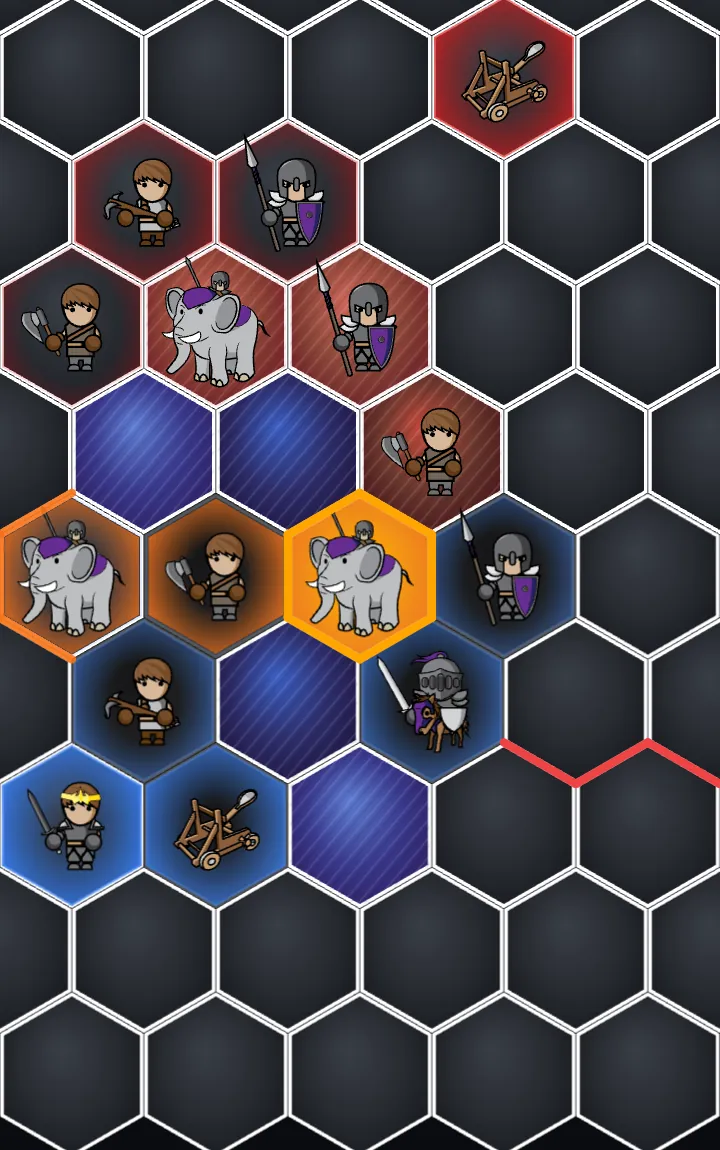
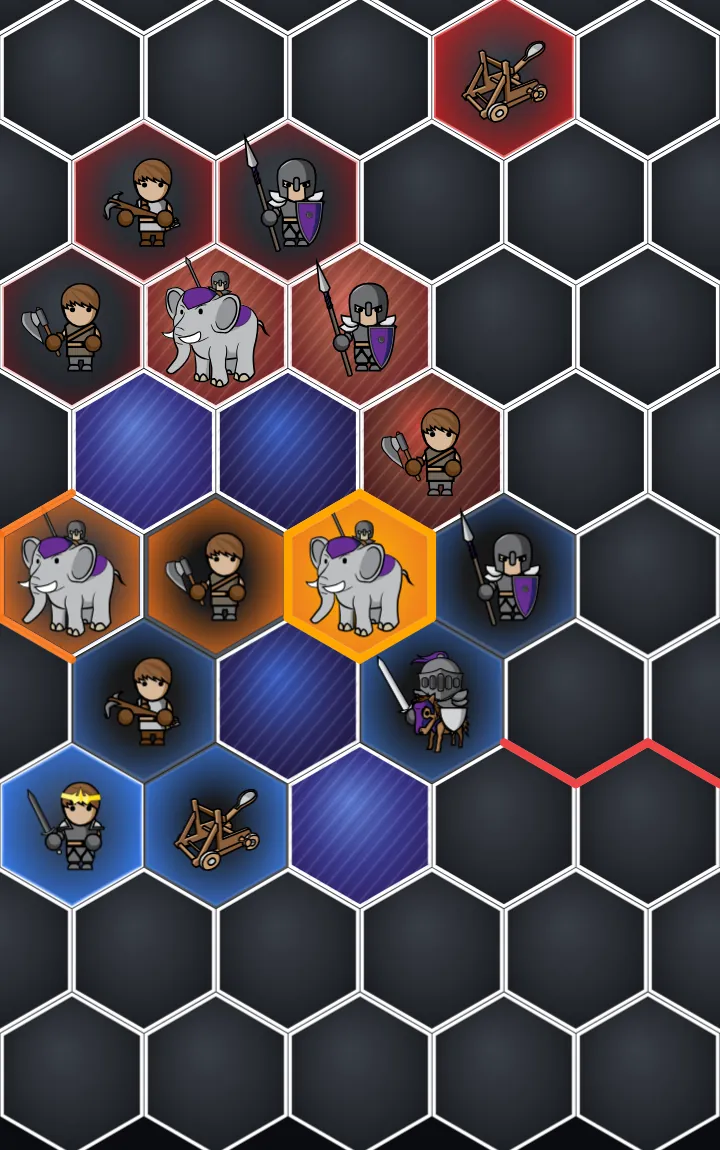
Capture with a software raster so a re-run is byte-identical

Changed region(s): [[0.4278, 0.487, 0.4583, 0.5174]]

diff --git a/test/capture/home_gallery_capture.rb b/test/capture/home_gallery_capture.rb
@@ -22,6 +22,11 @@ require "application_system_test_case"
 # rings are the game's own. A light horse's scene plays its first jump through
 # the controller, so the picture is the second-jump board.
 class HomeGalleryCapture < ApplicationSystemTestCase
+  # Software raster, one colour profile: the same scene draws the same pixels.
+  driven_by :selenium, using: :headless_chrome, screen_size: [ 1400, 1100 ] do |options|
+    %w[--disable-gpu --force-color-profile=srgb --disable-partial-raster --num-raster-threads=1].each { options.add_argument(_1) }
+  end
+
   CONTROLLER = "Stimulus.getControllerForElementAndIdentifier(document.querySelector('[data-controller=cyvasse-game]'), 'cyvasse-game')".freeze
   OUT = Rails.root.join("app/assets/images", HomeGallery::DIRECTORY)
   PREVIEWS = Rails.root.join("tmp/home_gallery")
